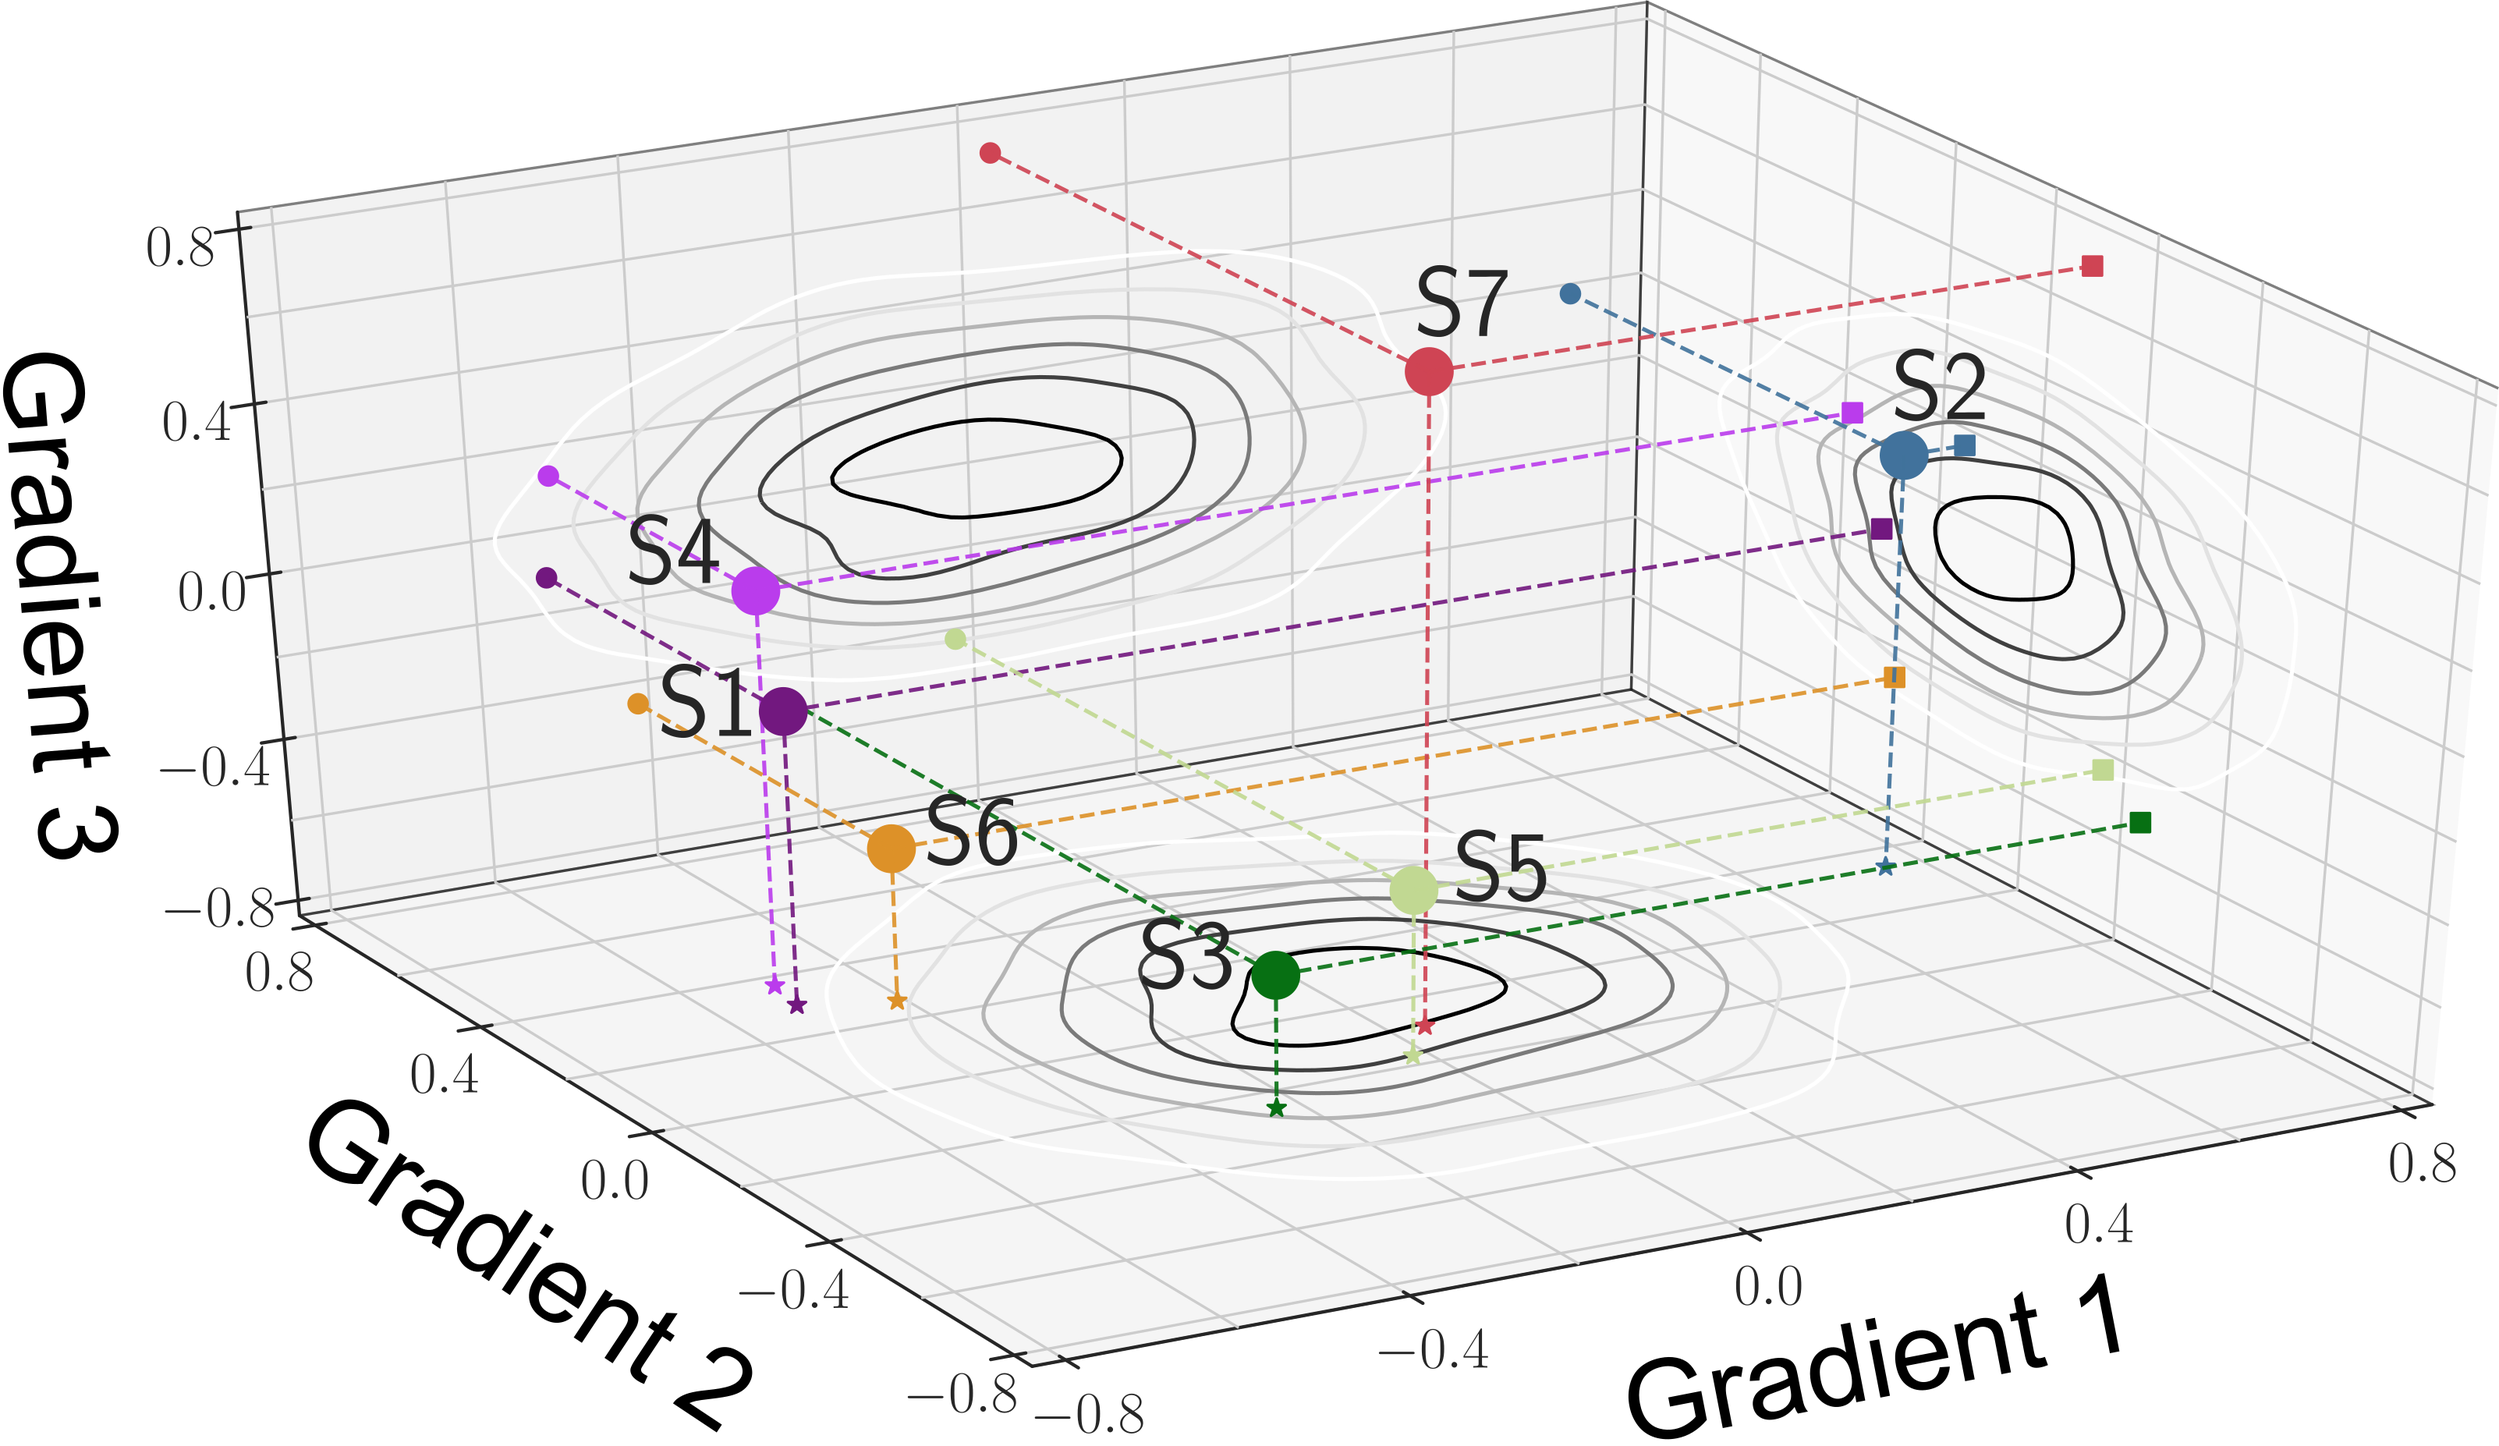
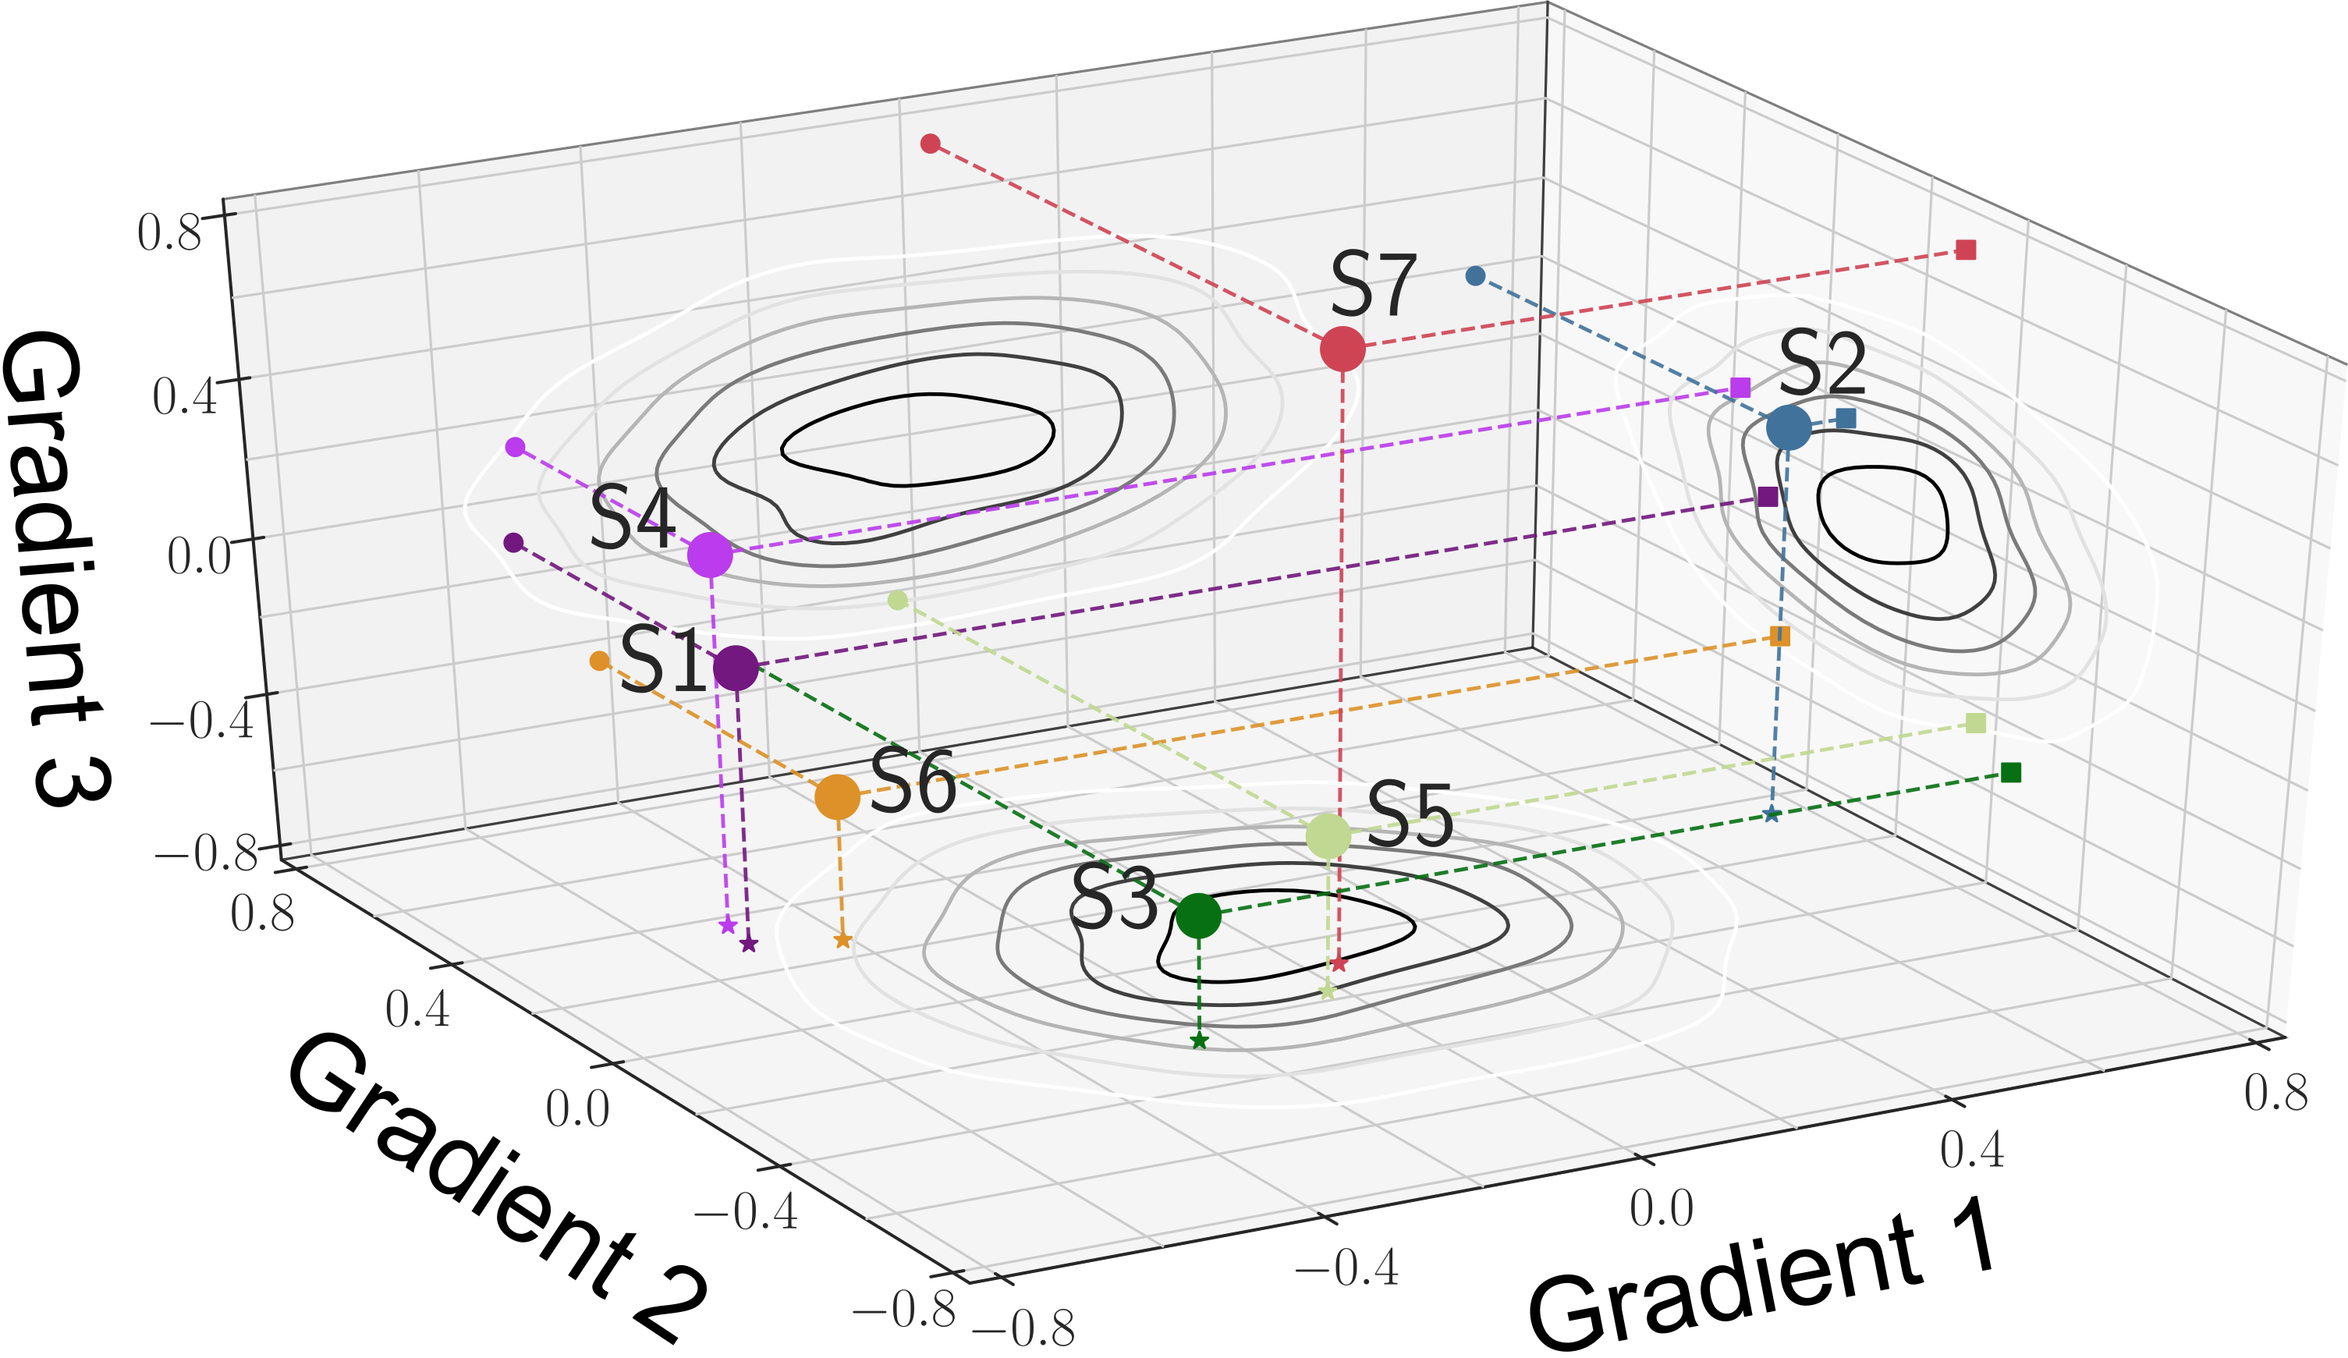
Update pubs

diff --git a/content/publication/karapanagiotidis-2019-emergence/index.md b/content/publication/karapanagiotidis-2019-emergence/index.md
@@ -19,13 +19,13 @@ doi = "10.1101/2019.12.21.885772"
 
   # Focal point (optional)
   # Options: Smart, Center, TopLeft, Top, TopRight, Left, Right, BottomLeft, Bottom, BottomRight
-  focal_point = "Smart"
+  focal_point = "Center"
 +++
 
 <script type='text/javascript' src='https://d1bxh8uas1mnw7.cloudfront.net/assets/embed.js'></script>
 <script async src="https://badge.dimensions.ai/badge.js" charset="utf-8"></script>
 
 
-<div style="width: 100px; display: inline-block;" data-badge-popover="right" data-badge-type="donut" data-doi="10.1101/2019.12.21.885772" class="altmetric-embed"></div>
-<div style="display: inline-block; margin-bottom: 4em; margin-right: 40em;" class="__dimensions_badge_embed__" data-doi="10.1101/2019.12.21.885772" data-style="small_circle" ></div>
+<div style="width: 100px; display: inline-block;" data-badge-popover="right" data-badge-type="donut" data-doi="10.1101/2019.12.21.885772" data-hide-no-mentions="true" class="altmetric-embed"></div>
+<div style="display: inline-block; margin-bottom: 4em; margin-right: 40em;" class="__dimensions_badge_embed__" data-doi="10.1101/2019.12.21.885772" data-hide-zero-citations="true" data-style="small_circle" ></div>
 
